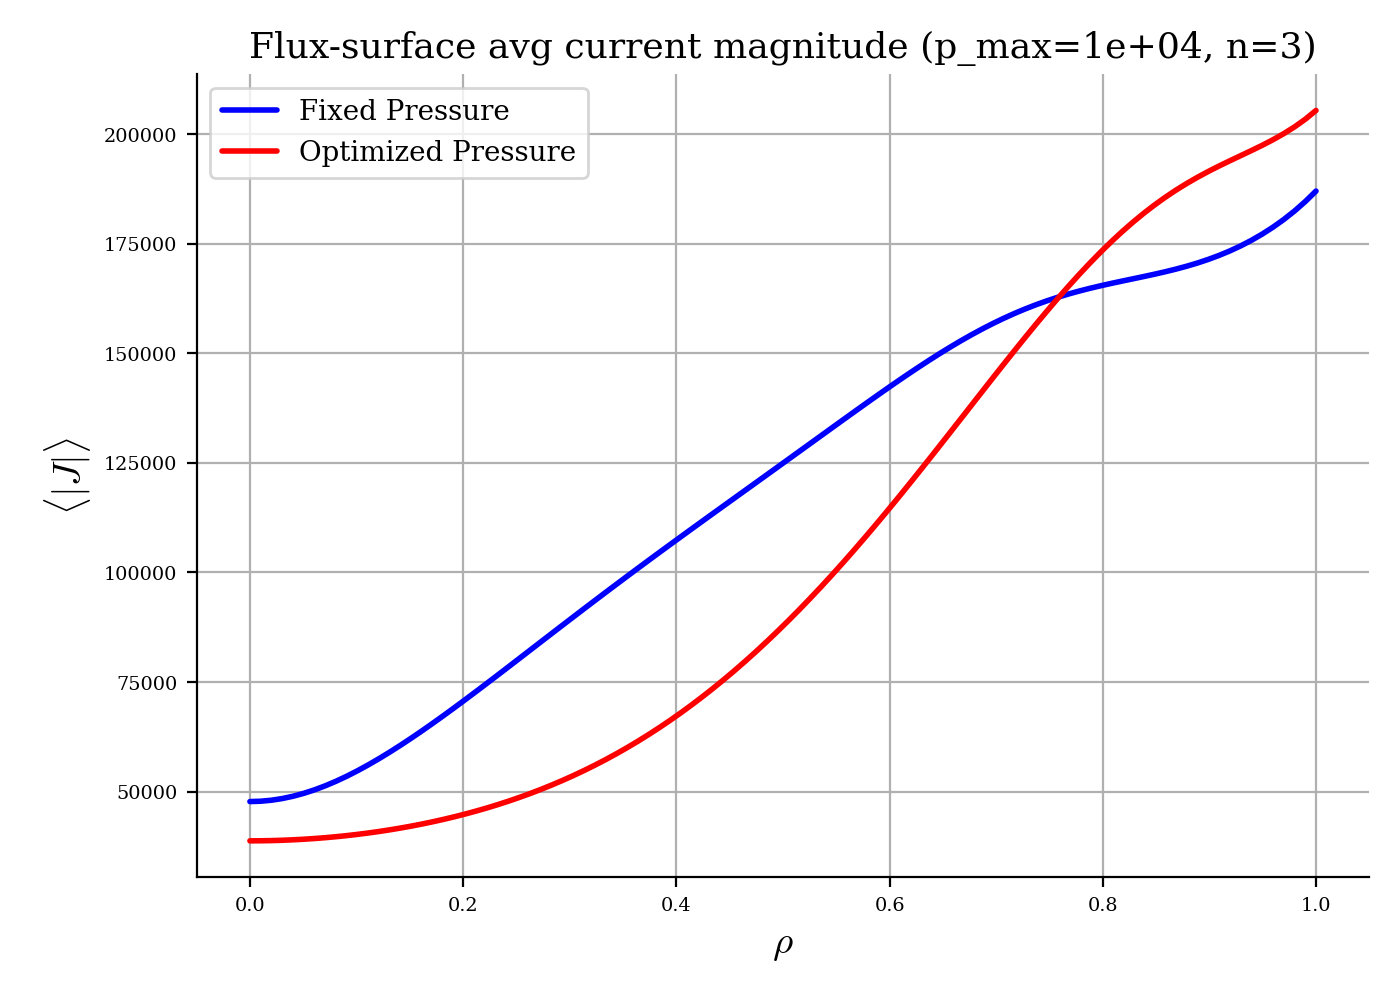
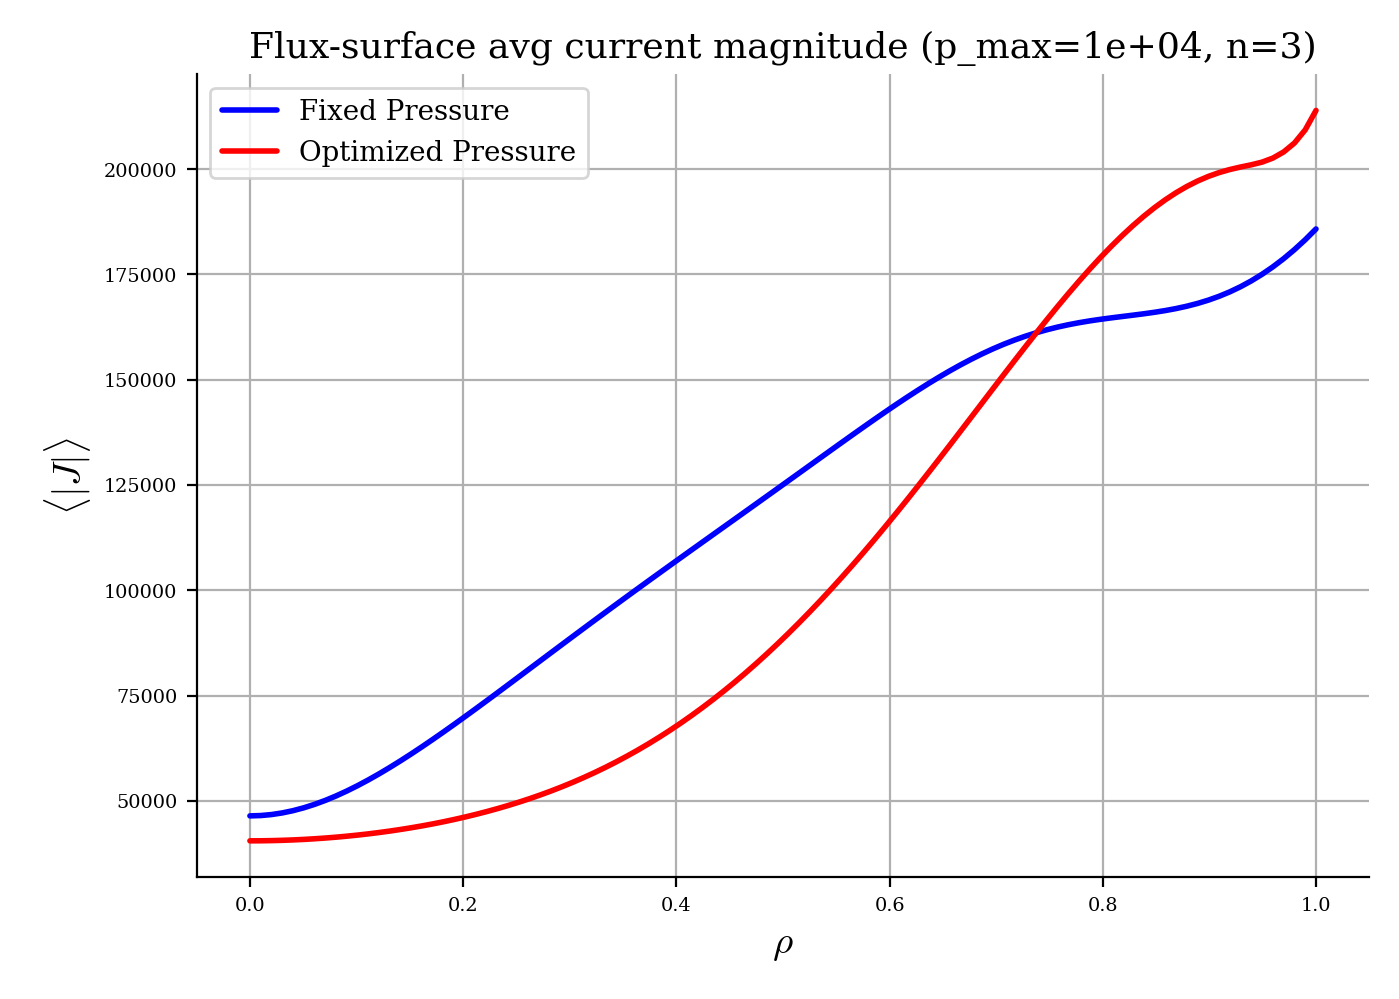
configured files for multiple optimizers with multiple inputs

diff --git a/research/poly/continuation/driver.py b/research/poly/continuation/driver.py
@@ -113,13 +113,7 @@ def comparison(
     #---------------------------------------------
     # Unpacking config variables needed in driver:
     NFP = eq_config["NFP"]
-
-    optimizers = opt_config["optimizers"]
-    optimizer1 = optimizers[0]
-    optimizer2 = optimizers[1] if len(optimizers) > 1 else None
-
-    toggle_FXD = opt_config["toggle_FXD"]
-    toggle_CON = opt_config["toggle_CON"]
+    optimizer_configs = opt_config["optimizer_configs"]
     #---------------------------------------------
 
     #========================================
@@ -136,14 +130,15 @@ def comparison(
 
     active_columns = []
     for key, label in column_map:
-        if toggle_FXD.get(key, False) or toggle_CON.get(key, False):
+        if any(
+            config["toggle_FXD"].get(key, False) or config["toggle_CON"].get(key, False)
+            for config in optimizer_configs
+            if config["name"] is not None
+        ):
             active_columns.append((key, label))
     #========================================
 
     base_dir = os.path.dirname(os.path.abspath(__file__))
-
-
-
 
     #==================================================
     # Loop over on-axis pressure and polynomial orders:
@@ -153,8 +148,7 @@ def comparison(
             # Generates meta-data README and directory:
             out_dir = os.path.join(base_dir, f"p{sci_compact(p_axis)}_n{n}")
             os.makedirs(out_dir, exist_ok=True)
-            #==================================
-
+            #==========================================
 
             #===================================
             # Running initial equilibrium solve:
@@ -166,48 +160,43 @@ def comparison(
             )
             #===================================
 
-
             #=========================================================
-            # 1st round of fixed and optimized pressure optimizations:
-            eq_opt_FXD, opt_result_FXD = run_optimization(
-                eq_init.copy(),
-                optimizer1,
-                p_axis,
-                out_dir=out_dir,
-                opt_config=opt_config,
-                FXD=True,
-            )
-            eq_opt_CON, opt_result_CON = run_optimization(
-                eq_init.copy(),
-                optimizer1,
-                p_axis,
-                out_dir=out_dir,
-                opt_config=opt_config,
-                FXD=False,
-            )
-            #-------------
+            # Run optimizer stages in order. Later stages overwrite
+            # earlier results, which is intended here.
+            eq_opt_FXD = eq_init.copy()
+            eq_opt_CON = eq_init.copy()
+            opt_result_FXD = None
+            opt_result_CON = None
 
-            #---------------------------------------------------------
-            # 2nd round of fixed and optimized pressure optimizations:
-            if optimizer2 is not None:
+            for config in optimizer_configs:
+                optimizer = config["name"]
+                if optimizer is None:
+                    continue
+
+                stage_opt_config = {
+                    **opt_config,
+                    "toggle_FXD": config["toggle_FXD"],
+                    "toggle_CON": config["toggle_CON"],
+                }
+
                 eq_opt_FXD, opt_result_FXD = run_optimization(
                     eq_opt_FXD,
-                    optimizer2,
+                    optimizer,
                     p_axis,
                     out_dir=out_dir,
-                    opt_config=opt_config,
+                    opt_config=stage_opt_config,
                     FXD=True,
                 )
+
                 eq_opt_CON, opt_result_CON = run_optimization(
                     eq_opt_CON,
-                    optimizer2,
+                    optimizer,
                     p_axis,
                     out_dir=out_dir,
-                    opt_config=opt_config,
+                    opt_config=stage_opt_config,
                     FXD=False,
                 )
-            #=================
-
+            #=========================================================
 
             #====================================
             # Generating comparison table labels:
@@ -226,9 +215,7 @@ def comparison(
             row_DIFF = []
             #====================================
 
-
             #=============================
-            #-----------------------------
             # Extracting objective values:
             for key, label in active_columns:
                 fmin_FXD, fmean_FXD, fmax_FXD = _safe_extract_from_result(
@@ -261,8 +248,12 @@ def comparison(
 
             #-------------------------
             # Including Beta in table:
-            beta_FXD = float(eq_opt_FXD.compute("<beta>_vol", override_grid=True)["<beta>_vol"])
-            beta_CON = float(eq_opt_CON.compute("<beta>_vol", override_grid=True)["<beta>_vol"])
+            beta_FXD = float(
+                eq_opt_FXD.compute("<beta>_vol", override_grid=True)["<beta>_vol"]
+            )
+            beta_CON = float(
+                eq_opt_CON.compute("<beta>_vol", override_grid=True)["<beta>_vol"]
+            )
             beta_DIFF = beta_CON - beta_FXD
 
             row_FXD.append(f"{beta_FXD:.4g}")
@@ -289,8 +280,7 @@ def comparison(
             with open(output_file, "w") as f:
                 f.write("Comparison of Post-Optimization Objectives\n\n")
                 f.write(ascii_table)
-            #=======================
-
+            #===========================
 
             #====================
             # Plotting pressures:
@@ -316,7 +306,7 @@ def comparison(
             pressure_path = os.path.join(out_dir, "pressure_compare.png")
             plt.savefig(pressure_path, dpi=200)
             plt.close()
-            #----------
+            #--------------------
 
             #-------------------------------------------------------
             # Plotting gridded toroidal cross-sections of B-fields:

diff --git a/research/poly/continuation/config.py b/research/poly/continuation/config.py
@@ -89,41 +89,69 @@ xtol = 1e-4
 gtol = 1e-3
 maxiter = 20
 
-# Fixed-pressure-family toggles (bools):
-toggle_FXD = {
-    "forcebalance_constraint": True,
-    "fix_iota": True,
-    "fix_psi": True,
-    "fix_pressure": True,
-    "forcebalance_objective": True,
-    "aspect_ratio": True,
-    "qs": True,
-    "ballooning": True,
-    "mercier": True,
-}
+optimizer_configs = [
+    { # 1st stage optimization:
+        "name": "proximal-lsq-exact", # optimizer choice
+        "toggle_FXD": { # fixed profiles
+            "forcebalance_constraint": True,
+            "fix_iota": True,
+            "fix_psi": True,
+            "fix_pressure": True,
+            "forcebalance_objective": True,
+            "aspect_ratio": True,
+            "qs": True,
+            "ballooning": True,
+            "mercier": True,
+        },
+        "toggle_CON": { # free profiles
+            "pressure_axis": True,
+            "pressure_edge": True,
+            "grad_pressure_axis": True,
+            "grad_pressure_edge": True,
+            "forcebalance_constraint": True,
+            "fix_iota": True,
+            "fix_psi": True,
+            "forcebalance_objective": True,
+            "aspect_ratio": True,
+            "qs": True,
+            "ballooning": True,
+            "mercier": True,
+            "monotonicity": True,
+        },
+    },
 
-# Optimized-pressure-family toggles (bools):
-toggle_CON = {
-    "pressure_axis": True,
-    "pressure_edge": True,
-    "grad_pressure_axis": True,
-    "grad_pressure_edge": True,
-    "forcebalance_constraint": True,
-    "fix_iota": True,
-    "fix_psi": True,
-    "forcebalance_objective": True,
-    "aspect_ratio": True,
-    "qs": True,
-    "ballooning": True,
-    "mercier": True,
-    "monotonicity": True,
-}
 
-# Ordered list of optimizers:
-# [optimizer1, optimizer2]
-optimizers = ["proximal-lsq-exact", None]
+    { # 2nd stage optimization:
+        "name": None,
+        "toggle_FXD": {
+            "forcebalance_constraint": False,
+            "fix_iota": False,
+            "fix_psi": False,
+            "fix_pressure": False,
+            "forcebalance_objective": False,
+            "aspect_ratio": False,
+            "qs": False,
+            "ballooning": False,
+            "mercier": False,
+        },
+        "toggle_CON": {
+            "pressure_axis": False,
+            "pressure_edge": False,
+            "grad_pressure_axis": False,
+            "grad_pressure_edge": False,
+            "forcebalance_constraint": False,
+            "fix_iota": False,
+            "fix_psi": False,
+            "forcebalance_objective": False,
+            "aspect_ratio": False,
+            "qs": False,
+            "ballooning": False,
+            "mercier": False,
+            "monotonicity": False,
+        },
+    },
+]
 #----------------------------------------
-
 
 #---------------------
 # Grouping opt inputs:
@@ -133,9 +161,7 @@ opt_config = {
     "xtol": xtol,
     "gtol": gtol,
     "maxiter": maxiter,
-    "toggle_FXD": toggle_FXD,
-    "toggle_CON": toggle_CON,
-    "optimizers": optimizers,
+    "optimizer_configs": optimizer_configs,
 }
 #----------------------------
 #=================================================#

diff --git a/research/poly/continuation/opt.py b/research/poly/continuation/opt.py
@@ -50,15 +50,13 @@ def run_optimization(eq_0, optimizer, p_scale, out_dir, opt_config, FXD: bool):
     toggle_FXD = opt_config["toggle_FXD"]
     toggle_CON = opt_config["toggle_CON"]
     toggle = toggle_FXD if FXD else toggle_CON
-    #=========================================
-
+    #=============================================
 
     constraints_list = []
     objectives_list = []
 
-
     #=========================
-    if FXD: # (fixed pressure)
+    if FXD:  # (fixed pressure)
         #----------------------
         # Construction of constraints:
         if toggle.get("forcebalance_constraint", False):
@@ -88,9 +86,8 @@ def run_optimization(eq_0, optimizer, p_scale, out_dir, opt_config, FXD: bool):
         #----------------------------------------------------------------
     #====================================================================
 
-
     #===========================
-    else: # (optimized pressure)
+    else:  # (optimized pressure)
         #------------------------------------
         # Construction of custom constraints:
         if toggle.get("pressure_axis", False):
@@ -125,17 +122,17 @@ def run_optimization(eq_0, optimizer, p_scale, out_dir, opt_config, FXD: bool):
                     target=0.0,
                 )
             )
-        #----------------------
+        #------------------------------------
 
         #--------------------------------------
         # Construction of standard constraints:
-        if toggle.get("forcebalance_constraint", True):
+        if toggle.get("forcebalance_constraint", False):
             constraints_list.append(ForceBalance(eq=eq_0))
         if toggle.get("fix_iota", False):
             constraints_list.append(FixIota(eq=eq_0))
         if toggle.get("fix_psi", False):
             constraints_list.append(FixPsi(eq=eq_0))
-        #-------------------------------------------
+        #--------------------------------------
 
         #----------------------------
         # Construction of objectives:
@@ -164,7 +161,6 @@ def run_optimization(eq_0, optimizer, p_scale, out_dir, opt_config, FXD: bool):
         #---------------------------
     #===============================
 
-
     #=======================================
     # Finalizing optimization objects/setup:
     constraints = tuple(constraints_list)
@@ -173,8 +169,7 @@ def run_optimization(eq_0, optimizer, p_scale, out_dir, opt_config, FXD: bool):
         raise ValueError("No optimization objectives were selected.")
 
     objectives = ObjectiveFunction(objectives_list)
-    #==============================================
-
+    #=======================================
 
     #======================
     # Running optimization:
@@ -189,7 +184,7 @@ def run_optimization(eq_0, optimizer, p_scale, out_dir, opt_config, FXD: bool):
         copy=True,
         verbose=3,
     )
-    #=============
+    #======================
 
     save_name = "opt_FXD.h5" if FXD else "opt_CON.h5"
     save_path = os.path.join(out_dir, save_name)
